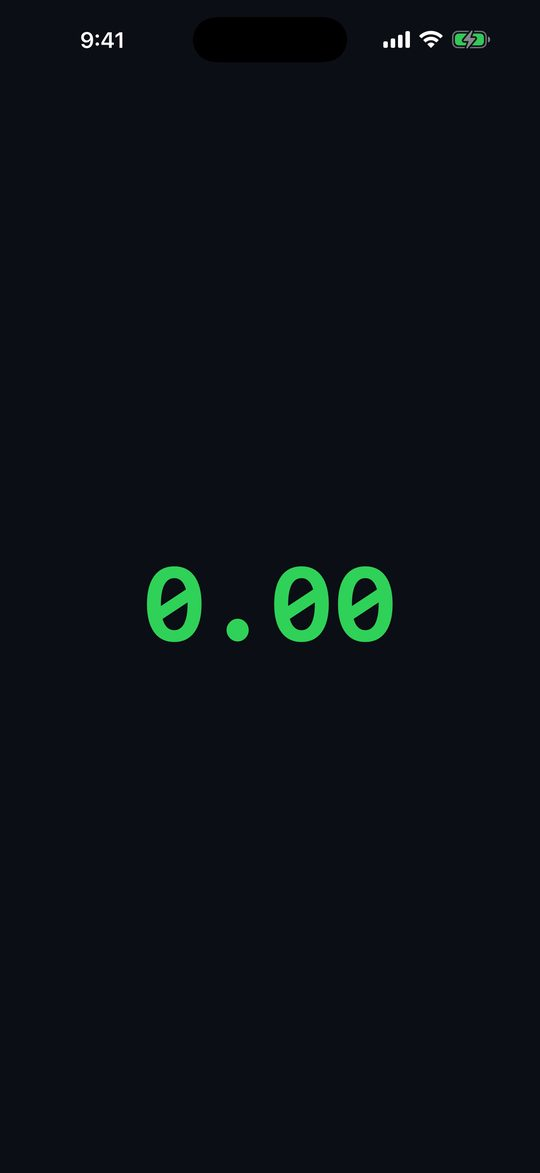
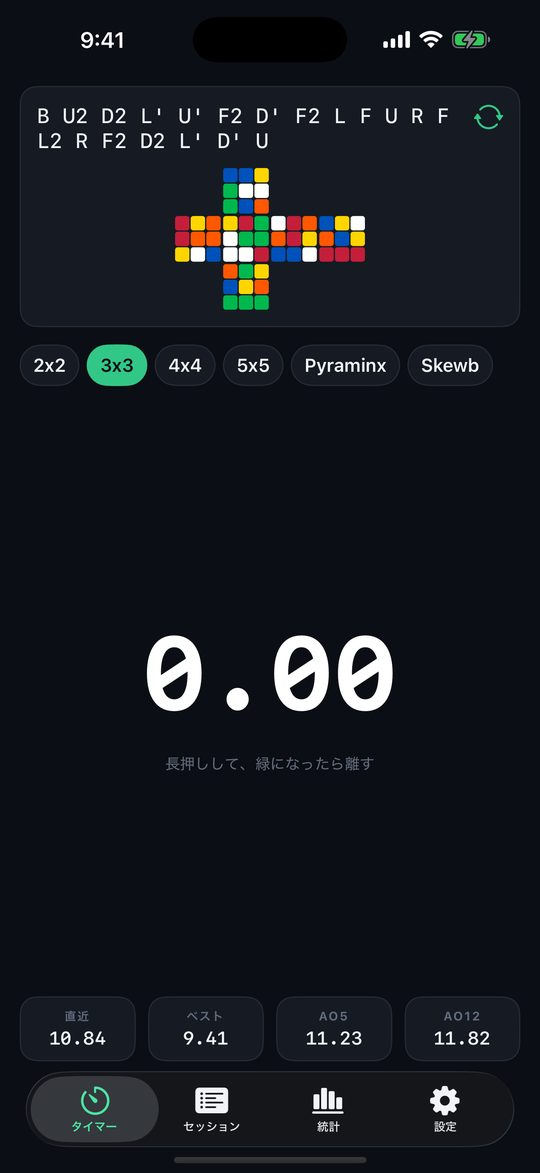
lp: SolveTime 1.3.0 の機能追加を反映（展開図・推移グラフ、新しいストア画像9枚）

diff --git a/solvetime/index.html b/solvetime/index.html
@@ -4,7 +4,7 @@
 <meta charset="UTF-8">
 <meta name="viewport" content="width=device-width, initial-scale=1.0">
 <title>SolveTime スピードキューブタイマー｜iPhoneアプリ</title>
-<meta name="description" content="完全オフラインで動く、すっきりしたスピードキューブ用タイマー。3x3・2x2・4x4・5x5・ピラミンクス・スキューブのWCA方式スクランブル、15秒インスペクション、ao5とao12。最初の14日間は全機能を無料で試せます。">
+<meta name="description" content="完全オフラインで動く、すっきりしたスピードキューブ用タイマー。3x3・2x2・4x4・5x5 は展開図つきのWCA方式スクランブル（ピラミンクス・スキューブにも対応）、15秒インスペクション、ao5とao12、推移グラフ。最初の14日間は全機能を無料で試せます。">
 <link rel="canonical" href="https://madeinchimpanzee.github.io/app-legal/solvetime/">
 <link rel="icon" href="img/icon.png">
 <link rel="apple-touch-icon" href="img/icon.png">
@@ -12,13 +12,13 @@
 <script defer src="https://static.cloudflareinsights.com/beacon.min.js" data-cf-beacon='{"token": "19cc6d39518c47219628c5f1152f72c9"}'></script>
 <meta property="og:type" content="website">
 <meta property="og:title" content="SolveTime スピードキューブタイマー｜iPhoneアプリ">
-<meta property="og:description" content="完全オフラインで動く、すっきりしたスピードキューブ用タイマー。3x3・2x2・4x4・5x5・ピラミンクス・スキューブのWCA方式スクランブル、15秒インスペクション、ao5とao12。最初の14日間は全機能を無料で試せます。">
+<meta property="og:description" content="完全オフラインで動く、すっきりしたスピードキューブ用タイマー。3x3・2x2・4x4・5x5 は展開図つきのWCA方式スクランブル（ピラミンクス・スキューブにも対応）、15秒インスペクション、ao5とao12、推移グラフ。最初の14日間は全機能を無料で試せます。">
 <meta property="og:url" content="https://madeinchimpanzee.github.io/app-legal/solvetime/">
 <meta property="og:image" content="https://madeinchimpanzee.github.io/app-legal/solvetime/img/og.jpg">
 <meta property="og:locale" content="ja_JP">
 <meta name="twitter:card" content="summary_large_image">
 <meta name="apple-itunes-app" content="app-id=6794981431">
-<script type="application/ld+json">{"@context": "https://schema.org", "@type": "SoftwareApplication", "name": "SolveTime スピードキューブタイマー", "operatingSystem": "iOS", "applicationCategory": "MobileApplication", "description": "完全オフラインで動く、すっきりしたスピードキューブ用タイマー。3x3・2x2・4x4・5x5・ピラミンクス・スキューブのWCA方式スクランブル、15秒インスペクション、ao5とao12。最初の14日間は全機能を無料で試せます。", "image": "https://madeinchimpanzee.github.io/app-legal/solvetime/img/icon.png", "url": "https://madeinchimpanzee.github.io/app-legal/solvetime/", "installUrl": "https://apps.apple.com/jp/app/id6794981431?ct=lp", "offers": {"@type": "Offer", "price": "0", "priceCurrency": "JPY"}, "author": {"@type": "Organization", "name": "MadeInChimpanzee"}}</script>
+<script type="application/ld+json">{"@context": "https://schema.org", "@type": "SoftwareApplication", "name": "SolveTime スピードキューブタイマー", "operatingSystem": "iOS", "applicationCategory": "MobileApplication", "description": "完全オフラインで動く、すっきりしたスピードキューブ用タイマー。3x3・2x2・4x4・5x5 は展開図つきのWCA方式スクランブル（ピラミンクス・スキューブにも対応）、15秒インスペクション、ao5とao12、推移グラフ。最初の14日間は全機能を無料で試せます。", "image": "https://madeinchimpanzee.github.io/app-legal/solvetime/img/icon.png", "url": "https://madeinchimpanzee.github.io/app-legal/solvetime/", "installUrl": "https://apps.apple.com/jp/app/id6794981431?ct=lp", "offers": {"@type": "Offer", "price": "0", "priceCurrency": "JPY"}, "author": {"@type": "Organization", "name": "MadeInChimpanzee"}}</script>
 <script type="application/ld+json">{"@context": "https://schema.org", "@type": "FAQPage", "mainEntity": [{"@type": "Question", "name": "料金はかかりますか？", "acceptedAnswer": {"@type": "Answer", "text": "無料でダウンロード。追加機能は買い切り（¥500）で解放できます。"}}, {"@type": "Question", "name": "対応機種は？", "acceptedAnswer": {"@type": "Answer", "text": "iPhone（App Store から入手）。"}}, {"@type": "Question", "name": "問い合わせ先は？", "acceptedAnswer": {"@type": "Answer", "text": "メール suportapps44@gmail.com までご連絡ください。"}}]}</script>
 <style>
 :root{--accent:#00BE4F;--accent-dark:#00943D;--accent-tint:#E0F7E9;--ink:#1F2430;--muted:#5F6673;--line:#E6E8EC;--bg:#FFFFFF}
@@ -97,7 +97,7 @@ footer .notice{font-size:11.5px;margin-top:10px}
     <img class="icon" src="img/icon.png" alt="SolveTime のアイコン" width="96" height="96">
     <h1>SolveTime スピードキューブタイマー</h1>
     <p class="sub">WCAスクランブルとao5・ao12を記録</p>
-    <p class="lead">完全オフラインで動く、すっきりしたスピードキューブ用タイマー。3x3・2x2・4x4・5x5・ピラミンクス・スキューブのWCA方式スクランブル、15秒インスペクション、ao5とao12。最初の14日間は全機能を無料で試せます。</p>
+    <p class="lead">完全オフラインで動く、すっきりしたスピードキューブ用タイマー。3x3・2x2・4x4・5x5 は展開図つきのWCA方式スクランブル（ピラミンクス・スキューブにも対応）、15秒インスペクション、ao5とao12、推移グラフ。最初の14日間は全機能を無料で試せます。</p>
     <a class="btn" href="https://apps.apple.com/jp/app/id6794981431?ct=lp" rel="noopener"><svg viewBox="0 0 24 24" aria-hidden="true"><path d="M16.7 12.6c0-2.6 2.1-3.8 2.2-3.9-1.2-1.8-3.1-2-3.7-2-1.6-.2-3.1.9-3.9.9-.8 0-2-.9-3.3-.9-1.7 0-3.3 1-4.2 2.5-1.8 3.1-.5 7.8 1.3 10.3.9 1.2 1.9 2.6 3.2 2.6 1.3-.1 1.8-.8 3.3-.8s2 .8 3.3.8c1.4 0 2.3-1.3 3.1-2.5 1-1.4 1.4-2.8 1.4-2.9-.1 0-2.7-1-2.7-4.1zM14.2 5c.7-.8 1.1-2 1-3.1-1 0-2.2.7-2.9 1.5-.6.7-1.2 1.9-1 3 1.1.1 2.2-.5 2.9-1.4z"/></svg>App Store からダウンロード</a>
     <p class="price">無料でダウンロード。追加機能は買い切り（¥500）で解放できます。</p>
   </div>
@@ -131,14 +131,16 @@ footer .notice{font-size:11.5px;margin-top:10px}
   <div class="detail">
 <p>SolveTime は、練習のために作られた速くてすっきりしたスピードキューブ用タイマーです。広告なし、アカウントなし、余計な要素なし。完全オフラインで動きます。</p>
 <p>3x3 のサブ10を狙っている人も、6面をそろえられるようになったばかりの人も、SolveTime があれば大会と同じやり方でタイムを計れます。</p>
-<p>WCA方式のスクランブル</p>
-<p>1ソルブごとに、記法どおりの新しいスクランブルが出ます。3x3・2x2・4x4・5x5・ピラミンクス・スキューブに対応。手数は種目ごとに適正で、無駄な回転は入りません。</p>
+<p>WCA方式のスクランブルと展開図</p>
+<p>1ソルブごとに、記法どおりの新しいスクランブルが出ます。3x3・2x2・4x4・5x5・ピラミンクス・スキューブに対応。手数は種目ごとに適正で、無駄な回転は入りません。キューブの種目では、崩したあとの状態をスクランブルのすぐ下に展開図で表示するので、手元のキューブと合っているか始める前に確かめられます。</p>
 <p>15秒インスペクション</p>
 <p>公式と同じ方式のインスペクションを8秒・12秒のコール付きでオンにできます。15秒を超えれば自動で+2、17秒を超えればDNF。実際のソルブとまったく同じ扱いです。</p>
 <p>長押しスタート</p>
 <p>押さえたまま緑になるのを待って、離せばスタート。長押しの長さは変えられます。計測中のタイム表示を消して、時計ではなくソルブに集中することもできます。</p>
 <p>意味のある平均</p>
 <p>ao5とao12をその場で表示。ao50・ao100、ベストシングル、セッション平均、標準偏差も、すべてWCAのトリム規則で計算します。どのソルブにも+2やDNFを付けられます。</p>
+<p>上達が見える推移グラフ</p>
+<p>統計タブのグラフに、シングルと ao5・ao12 の推移、自己ベストを更新した点を描きます。直近25回・100回・セッション全体を切り替えられます。</p>
 <p>種目ごとのセッション</p>
 <p>パズルごとにセッションを分けて持てます。履歴はそのタイムを出したスクランブル付きで全件残り、いらないソルブは削除できます。</p>
 <p>設計からしてプライベート</p>
